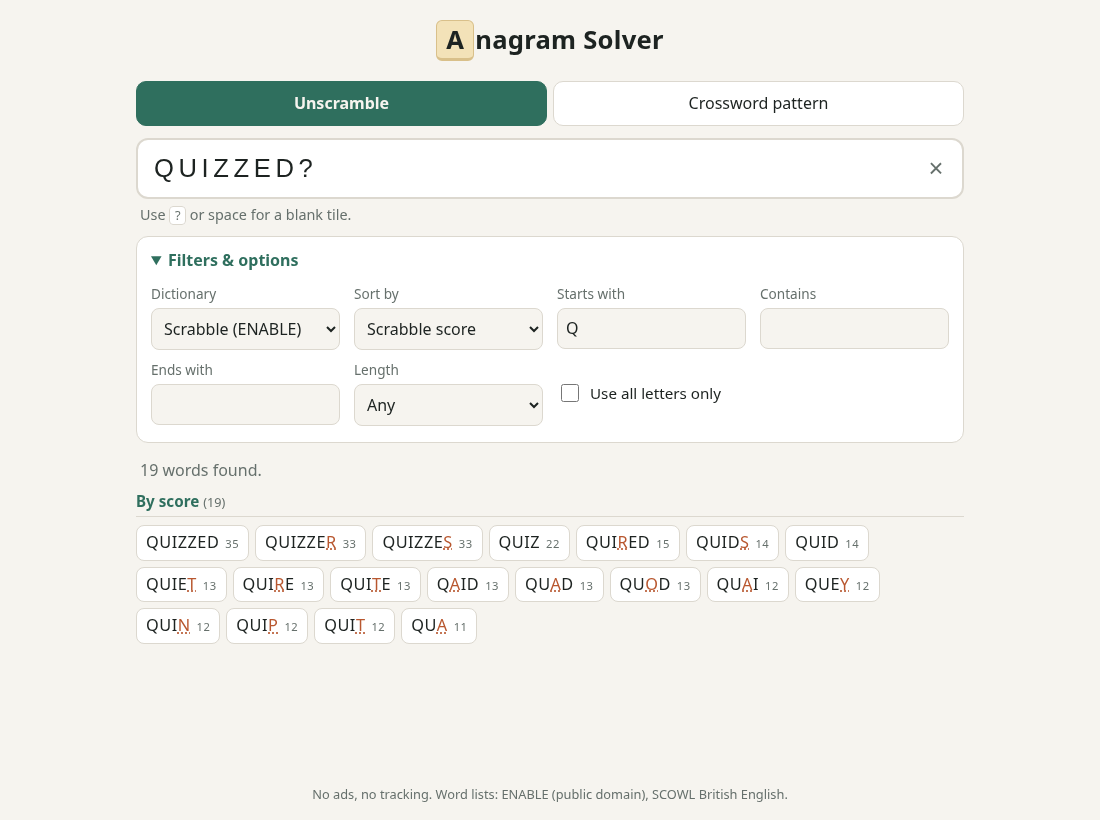
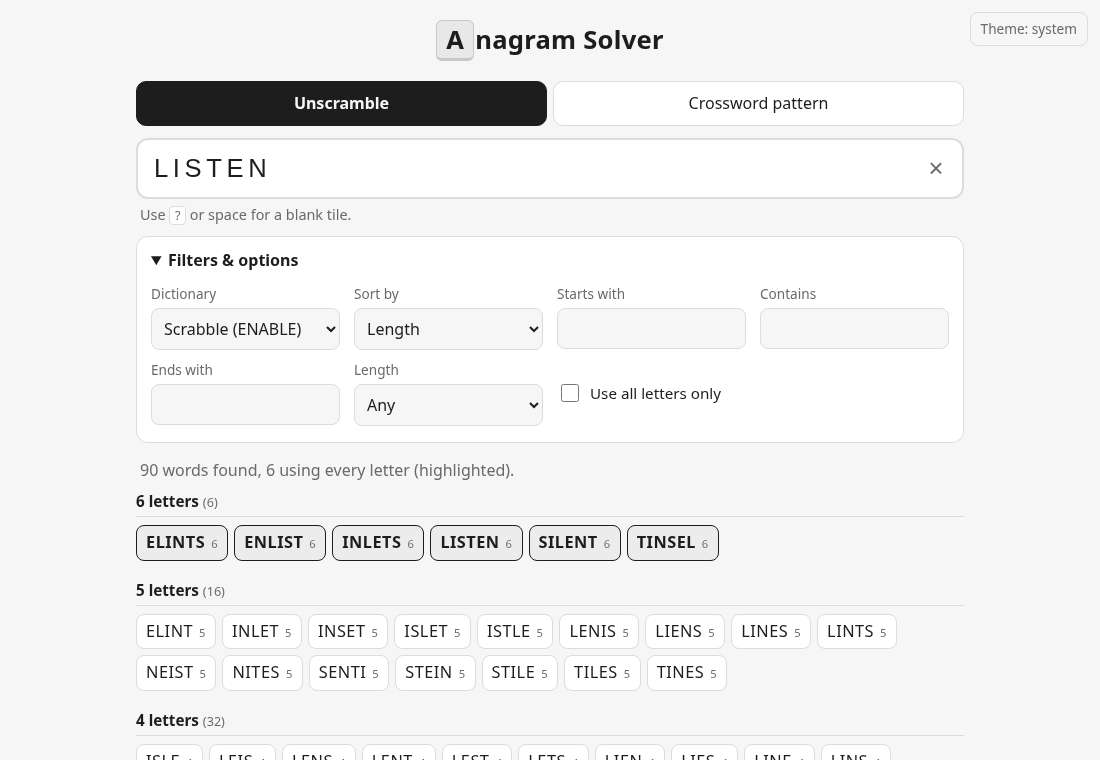
Go monochrome and add a theme override
Accents and tiles become neutral, keeping the blank-tile highlight because it
carries meaning. Adds a System, Light and Dark choice that is remembered.

diff --git a/style.css b/style.css
@@ -1,29 +1,44 @@
 :root {
-  --bg: #f6f4ef;
+  color-scheme: light;
+  --bg: #f6f6f6;
   --card: #ffffff;
-  --text: #1d2321;
-  --muted: #66706c;
-  --accent: #2f6f5e;
-  --accent-soft: #e2efe9;
-  --tile: #f3e2b8;
-  --tile-edge: #d9c08a;
-  --border: #dcd8cf;
+  --text: #1d1d1d;
+  --muted: #6a6a6a;
+  --accent: #1d1d1d;
+  --accent-soft: #ececec;
+  --tile: #e8e8e8;
+  --tile-edge: #c8c8c8;
+  --border: #dcdcdc;
+  /* Fixed on purpose: marks letters a blank tile stood in for. */
   --blank: #b8572f;
-  color-scheme: light dark;
 }
 @media (prefers-color-scheme: dark) {
-  :root {
-    --bg: #151a19;
-    --card: #1e2523;
-    --text: #e7ebe9;
-    --muted: #9aa5a1;
-    --accent: #6cc2a8;
-    --accent-soft: #23352f;
-    --tile: #3a3424;
-    --tile-edge: #5a4f33;
-    --border: #2f3936;
+  :root:not([data-theme="light"]) {
+    color-scheme: dark;
+    --bg: #161616;
+    --card: #1f1f1f;
+    --text: #e8e8e8;
+    --muted: #9e9e9e;
+    --accent: #e8e8e8;
+    --accent-soft: #2a2a2a;
+    --tile: #333333;
+    --tile-edge: #4d4d4d;
+    --border: #303030;
     --blank: #f0956c;
   }
+}
+:root[data-theme="dark"] {
+  color-scheme: dark;
+  --bg: #161616;
+  --card: #1f1f1f;
+  --text: #e8e8e8;
+  --muted: #9e9e9e;
+  --accent: #e8e8e8;
+  --accent-soft: #2a2a2a;
+  --tile: #333333;
+  --tile-edge: #4d4d4d;
+  --border: #303030;
+  --blank: #f0956c;
 }
 
 * { box-sizing: border-box; }
@@ -40,7 +55,15 @@ body {
 }
 main { width: 100%; max-width: 860px; margin: 0 auto; padding: 0 16px 24px; flex: 1; }
 
-.top { text-align: center; padding: 20px 16px 8px; }
+.top { position: relative; text-align: center; padding: 20px 16px 8px; }
+#theme {
+  position: absolute; top: 12px; right: 12px; padding: 6px 10px; font: inherit; font-size: .85rem;
+  color: var(--muted); background: none; border: 1px solid var(--border); border-radius: 8px; cursor: pointer;
+}
+#theme:hover { background: var(--accent-soft); }
+@media (max-width: 600px) {
+  #theme { position: static; display: block; margin: 8px auto 0; }
+}
 .top h1 { margin: 0; font-size: 1.6rem; letter-spacing: .01em; }
 .tile {
   display: inline-block;

diff --git a/theme.js b/theme.js
@@ -1,0 +1,24 @@
+// Runs before the page draws, so a chosen theme never flashes the wrong colours.
+(function () {
+  const KEY = 'theme';
+  const ORDER = ['system', 'light', 'dark'];
+  const read = () => {
+    try { return localStorage.getItem(KEY) || 'system'; } catch { return 'system'; }
+  };
+  const apply = (choice) => {
+    if (choice === 'system') document.documentElement.removeAttribute('data-theme');
+    else document.documentElement.setAttribute('data-theme', choice);
+  };
+  apply(read());
+  addEventListener('DOMContentLoaded', () => {
+    const button = document.getElementById('theme');
+    const label = (choice) => { button.textContent = 'Theme: ' + choice; };
+    label(read());
+    button.addEventListener('click', () => {
+      const next = ORDER[(ORDER.indexOf(read()) + 1) % ORDER.length];
+      try { localStorage.setItem(KEY, next); } catch { /* still applies for this visit */ }
+      apply(next);
+      label(next);
+    });
+  });
+})();

diff --git a/index.html b/index.html
@@ -3,16 +3,18 @@
 <head>
   <meta charset="utf-8">
   <meta name="viewport" content="width=device-width, initial-scale=1, viewport-fit=cover">
-  <meta name="theme-color" content="#2f6f5e">
+  <meta name="theme-color" content="#1d1d1d">
   <meta name="description" content="Fast, ad-free anagram solver and word unscrambler.">
   <title>Anagram Solver</title>
   <link rel="manifest" href="manifest.webmanifest">
   <link rel="icon" href="icon.svg" type="image/svg+xml">
+  <script src="theme.js"></script>
   <link rel="stylesheet" href="style.css">
 </head>
 <body>
   <header class="top">
     <h1><span class="tile">A</span>nagram Solver</h1>
+    <button type="button" id="theme">Theme: system</button>
   </header>
 
   <main>

diff --git a/sw.js b/sw.js
@@ -1,7 +1,7 @@
 // Offline support: app files are network-first (so updates show up straight away),
 // word lists are cache-first (large and rarely change). Bump VERSION when word lists change.
-const VERSION = 'v2';
-const FILES = ['./', 'index.html', 'style.css', 'app.js', 'icon.svg', 'manifest.webmanifest',
+const VERSION = 'v3';
+const FILES = ['./', 'index.html', 'style.css', 'app.js', 'theme.js', 'icon.svg', 'manifest.webmanifest',
   'words/scrabble.txt', 'words/british.txt'];
 
 self.addEventListener('install', (e) => {
